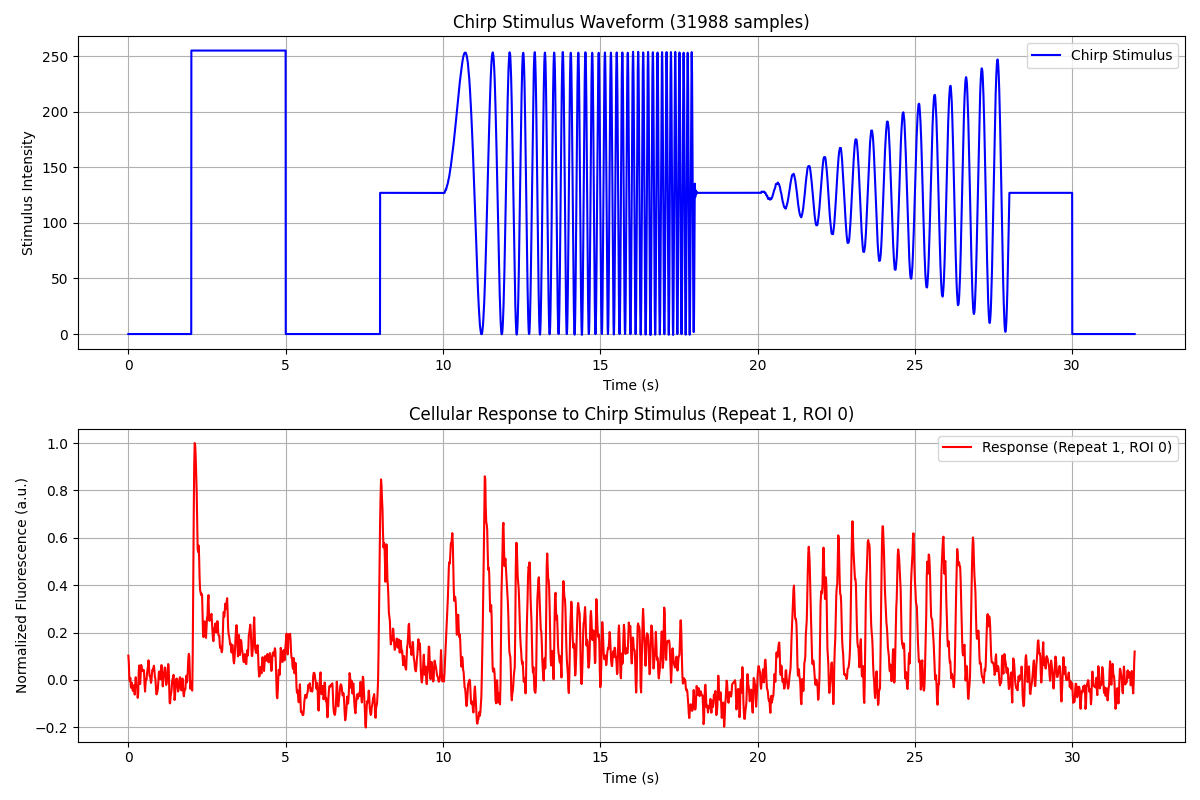
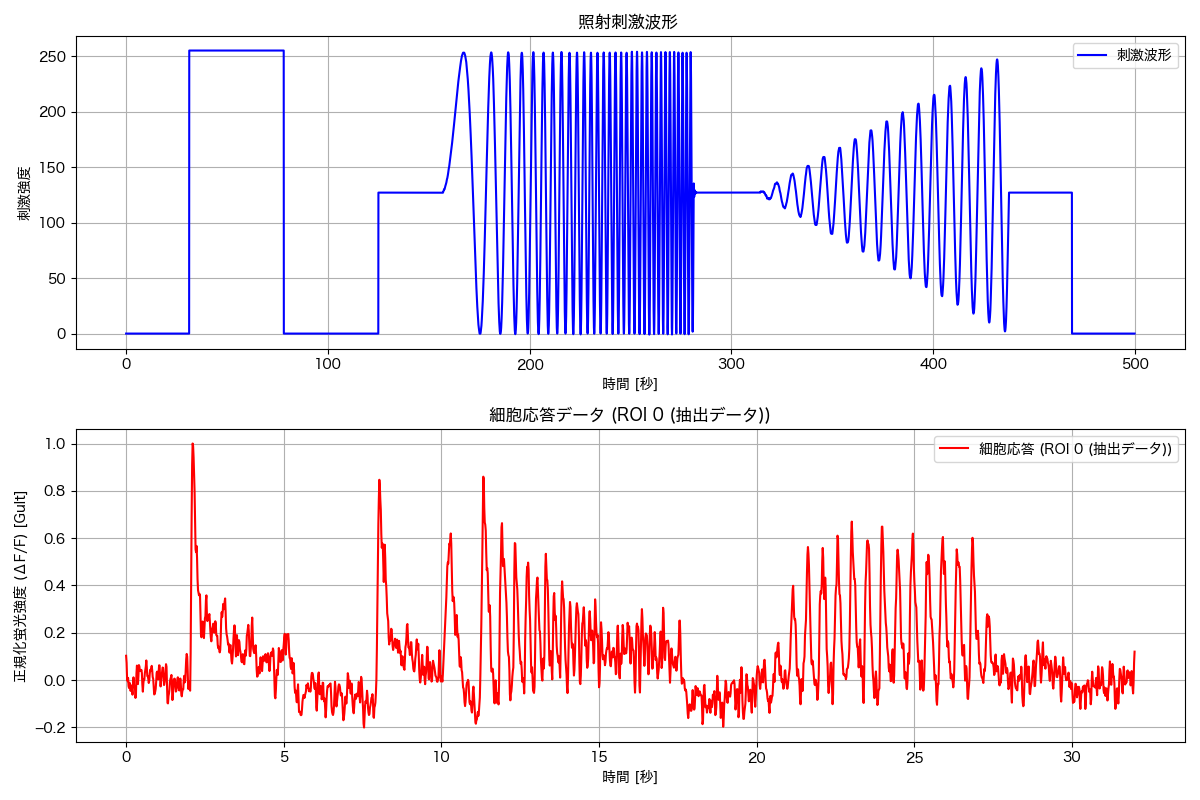
飽和の改善

diff --git a/data/ret2p/plot.py b/data/ret2p/plot.py
@@ -1,174 +1,107 @@
 import numpy as np
 import matplotlib.pyplot as plt
+from scipy.interpolate import interp1d
+import japanize_matplotlib
 
-# --- 1. 設定 ---
-# ファイル名
-stim_filename = 'data/ret2p/chirp_stim_64Hz_linear.txt'
-# 応答データファイルのフォーマット (反復回数は %d で指定)
-resp_filename_format = 'data/ret2p/response_data_64Hz.txt'
+ # Macの場合の日本語フォント設定例
 
-# 読み込む反復回数を指定 (MATLABでこのファイル名で保存した場合)
-# 例: MATLABで 'response_data_repeat_1.txt' として保存したなら、1 を指定
-target_repeat_to_load = 1 
-
-# プロットしたいROI (細胞) のインデックスを指定import numpy as np
-import matplotlib.pyplot as plt
-
-# --- 1. 設定 ---
-# ファイル名 (先ほど生成した64Hzのファイルを指定)
-stim_filename = 'data/ret2p/chirp_stim_64Hz_linear.txt'
+# --- 1. 日本語フォントの設定 ---
+# Windowsなら'MS Gothic', Macなら'Hiragino Sans'などを指定します
+# 環境に合わせて適宜変更してください
+plt.rcParams['font.family'] = 'Hiragino Sans' 
+# --- 2. ファイルとパラメータの設定 ---
+stim_filename = 'data/ret2p/chirp_stim_64Hz_bilinear.txt'
 resp_filename = 'data/ret2p/response_data_64Hz.txt'
 
 # サンプリングレート (Hz)
-# ※重要: 入力データも64Hzにダウンサンプリング済みなので、両方64Hzにします
-stim_sampling_rate = 64
+# ※データに合わせて変更してください。
+# ここでは提示されたコード(上部)に従い、両方とも64Hzにダウンサンプリング済みと仮定します。
+stim_sampling_rate = 64  
 resp_sampling_rate = 64
 
-# --- 2. chirp_stim_64Hz.txt の読み込みとプロット ---
+# プロット対象のROIインデックス (0が最初の細胞)
+target_roi_index = 1
+
+# --- 3. データの読み込み ---
 try:
+    # 刺激データの読み込み
     chirp_stim = np.loadtxt(stim_filename)
     stim_time = np.arange(0, len(chirp_stim)) / stim_sampling_rate
-
-    plt.figure(figsize=(12, 8))
-
-    plt.subplot(2, 1, 1)
-    plt.plot(stim_time, chirp_stim, color='blue', label='Chirp Stimulus (64Hz)')
-    plt.title(f'Chirp Stimulus Waveform ({len(chirp_stim)} samples)')
-    plt.xlabel('Time (s)')
-    plt.ylabel('Stimulus Intensity')
-    plt.grid(True)
-    plt.legend()
-
-except FileNotFoundError:
-    print(f"エラー: {stim_filename} が見つかりません。")
-    plt.figure()
-    plt.subplot(2, 1, 1)
-
-# --- 3. response_data_64Hz.txt の読み込みとプロット ---
-try:
-    # データを読み込む
-    response_data = np.loadtxt(resp_filename)
     
-    # データが1次元配列（1列しかない）場合の処理
+    # 応答データの読み込み
+    response_data = np.loadtxt(resp_filename)
+
+    # 応答データが1次元（1列のみ）か2次元（複数列）かで処理を分ける
     if response_data.ndim == 1:
         selected_roi_response = response_data
-        roi_label = "ROI 0 (extracted)"
+        roi_label = "ROI 0 (抽出データ)"
     else:
-        # もし複数列ある場合は最初の列を使う
-        selected_roi_response = response_data[:, 0]
-        roi_label = "ROI 0"
+        # 指定したインデックスが存在するか確認
+        if target_roi_index < response_data.shape[1]:
+            selected_roi_response = response_data[:, target_roi_index]
+            roi_label = f"ROI {target_roi_index}"
+        else:
+            print(f"警告: ROI {target_roi_index} は存在しません。最初のROIを表示します。")
+            selected_roi_response = response_data[:, 0]
+            roi_label = "ROI 0"
 
     resp_time = np.arange(0, len(selected_roi_response)) / resp_sampling_rate
 
-    plt.subplot(2, 1, 2)
-    plt.plot(resp_time, selected_roi_response, color='red', label=f'Response ({roi_label})')
-    plt.title(f'Cellular Response to Chirp Stimulus ({roi_label})')
-    plt.xlabel('Time (s)')
-    plt.ylabel('Normalized Fluorescence (a.u.)')
-    plt.grid(True)
-    plt.legend()
+except FileNotFoundError as e:
+    print(f"エラー: ファイルが見つかりません。\n詳細: {e}")
+    # 以降の処理を中断するためにexitするか、ダミーデータを入れる等の対応が必要
+    # ここでは空の配列を入れてエラー落ちを防ぎます
+    chirp_stim = np.array([])
+    selected_roi_response = np.array([])
+    stim_time = np.array([])
+    resp_time = np.array([])
 
-except FileNotFoundError:
-    print(f"エラー: {resp_filename} が見つかりません。")
-    plt.subplot(2, 1, 2)
-
-plt.tight_layout()
-plt.show()
-
-# --- 参考: 重ね合わせプロット ---
-# 両方とも64Hzになっているはずなので、そのまま重ねてプロット可能です
-if 'stim_time' in locals() and 'selected_roi_response' in locals():
-    # データ長がわずかに異なる場合のために長さを揃える（短い方に合わせる）
-    min_len = min(len(stim_time), len(resp_time))
-    
-    plt.figure(figsize=(12, 6))
-    plt.plot(stim_time[:min_len], chirp_stim[:min_len], color='blue', alpha=0.7, label='Stimulus')
-    plt.plot(resp_time[:min_len], selected_roi_response[:min_len], color='red', alpha=0.7, label='Response')
-    plt.title('Stimulus and Response Overlaid (64Hz)')
-    plt.xlabel('Time (s)')
-    plt.legend()
-    plt.grid(True)
-    plt.tight_layout()
-    plt.show()
-# Pythonは0-based indexなので、最初の細胞なら 0、10番目の細胞なら 9
-target_roi_index = 0 
-
-# サンプリングレート (Hz)
-stim_sampling_rate = 1000  # chirp_stim は1000Hz (1kHz)
-resp_sampling_rate = 64    # lchirp_avg (応答データ) は64Hz
-
-# --- 2. chirp_stimulus.txt の読み込みとプロット ---
-try:
-    # chirp_stim = np.loadtxt(stim_filename, delimiter='\t')
-    chirp_stim= np.loadtxt(stim_filename)
-    stim_time = np.arange(0, len(chirp_stim)) / stim_sampling_rate
-
+# --- 4. グラフのプロット (上下に並べる) ---
+if len(chirp_stim) > 0 and len(selected_roi_response) > 0:
     plt.figure(figsize=(12, 8))
 
-    plt.subplot(2, 1, 1) # 2行1列のグラフの1番目
-    plt.plot(stim_time, chirp_stim, color='blue', label='Chirp Stimulus')
-    plt.title('Chirp Stimulus Waveform ({} samples)'.format(len(chirp_stim)))
-    plt.xlabel('Time (s)')
-    plt.ylabel('Stimulus Intensity')
-    plt.grid(True)
-    plt.legend()
-
-except FileNotFoundError:
-    print(f"エラー: {stim_filename} が見つかりません。ファイルパスを確認してください。")
-    plt.figure() # エラーでもグラフは作成し、後続のプロットのためにsubplot数を設定
+    # 上段: 刺激波形
     plt.subplot(2, 1, 1)
-
-# --- 3. response_data_repeat_X.txt の読み込みとプロット ---
-# 指定した反復回数のファイル名を生成
-resp_current_filename = resp_filename_format % target_repeat_to_load
-
-try:
-    # 応答データは [サンプル数 x ROI数] の2次元配列
-    response_data = np.loadtxt(resp_current_filename, delimiter='\t')
-    
-    # 選択されたROIのデータを抽出
-    if target_roi_index < response_data.shape[1]:
-        selected_roi_response = response_data[:, target_roi_index]
-    else:
-        print(f"警告: 指定されたROIインデックス {target_roi_index} は存在しません。")
-        print(f"利用可能なROIの数は {response_data.shape[1]} です。最初のROIをプロットします。")
-        selected_roi_response = response_data[:, 0]
-        target_roi_index = 0 # 最初のROIに設定
-        
-    resp_time = np.arange(0, len(selected_roi_response)) / resp_sampling_rate
-
-    plt.subplot(2, 1, 2) # 2行1列のグラフの2番目
-    plt.plot(resp_time, selected_roi_response, color='red', label=f'Response (Repeat {target_repeat_to_load}, ROI {target_roi_index})')
-    plt.title(f'Cellular Response to Chirp Stimulus (Repeat {target_repeat_to_load}, ROI {target_roi_index})')
-    plt.xlabel('Time (s)')
-    plt.ylabel('Normalized Fluorescence (a.u.)')
+    plt.plot(stim_time, chirp_stim, color='blue', label='刺激波形')
+    plt.title(f'照射刺激波形 ')
+    plt.xlabel('時間 [秒]')
+    plt.ylabel('刺激強度')
     plt.grid(True)
-    plt.legend()
+    plt.legend(loc='upper right')
 
-except FileNotFoundError:
-    print(f"エラー: {resp_current_filename} が見つかりません。ファイルパスを確認してください。")
-    plt.subplot(2, 1, 2) # エラーでもグラフは作成
+    # 下段: 細胞応答
+    plt.subplot(2, 1, 2)
+    plt.plot(resp_time, selected_roi_response, color='red', label=f'細胞応答 ({roi_label})')
+    plt.title(f'細胞応答データ ({roi_label})')
+    plt.xlabel('時間 [秒]')
+    plt.ylabel('正規化蛍光強度 (ΔF/F) [Gult]')
+    plt.grid(True)
+    plt.legend(loc='upper right')
 
-plt.tight_layout() # サブプロット間のスペースを調整
-plt.show()
+    plt.tight_layout()
+    plt.show()
 
-# --- 参考: 刺激と応答を重ねてプロットする場合の注意 ---
-# サンプリングレートが異なるため、直接重ねると時間軸がずれるか、プロットが粗くなります。
-# 適切に重ねるには、どちらかのデータをリサンプリングする必要があります。
-# 例: 応答データを刺激データと同じレートにアップサンプリング
-if 'stim_time' in locals() and 'selected_roi_response' in locals():
-    from scipy.interpolate import interp1d
-
-    f = interp1d(resp_time, selected_roi_response, kind='linear', fill_value="extrapolate")
-    resampled_response = f(stim_time)
-
+    # --- 5. 参考: 重ね合わせプロット ---
+    # 両方のデータの時間軸を合わせてプロットします
     plt.figure(figsize=(12, 6))
-    plt.plot(stim_time, chirp_stim, color='blue', alpha=0.7, label='Chirp Stimulus (1000Hz)')
-    plt.plot(stim_time, resampled_response, color='red', alpha=0.7, label=f'Resampled Response (Repeat {target_repeat_to_load}, ROI {target_roi_index})')
-    plt.title('Chirp Stimulus and Resampled Response Overlaid')
-    plt.xlabel('Time (s)')
-    plt.ylabel('Intensity / Normalized Fluorescence')
-    plt.grid(True)
+    
+    # 単純な重ね合わせ（サンプリングレートが同じ場合）
+    if stim_sampling_rate == resp_sampling_rate:
+        # 短い方の長さに合わせる
+        min_len = min(len(stim_time), len(resp_time))
+        plt.plot(stim_time[:min_len], chirp_stim[:min_len], color='blue', alpha=0.6, label='刺激')
+        plt.plot(resp_time[:min_len], selected_roi_response[:min_len], color='red', alpha=0.8, label='応答')
+    else:
+        # サンプリングレートが異なる場合、応答データを刺激データの時間に合わせる（補間）
+        f = interp1d(resp_time, selected_roi_response, kind='linear', fill_value="extrapolate")
+        resampled_response = f(stim_time)
+        plt.plot(stim_time, chirp_stim, color='blue', alpha=0.6, label='刺激')
+        plt.plot(stim_time, resampled_response, color='red', alpha=0.8, label='応答 (リサンプリング済)')
+
+    plt.title('刺激と応答の重ね合わせ')
+    plt.xlabel('時間 [秒]')
+    plt.ylabel('強度 / 蛍光')
     plt.legend()
+    plt.grid(True)
     plt.tight_layout()
     plt.show()

diff --git a/src/plot_result.py b/src/plot_result.py
@@ -213,11 +213,25 @@ def main():
     u_t = u_t[:min_len_eval]
     Input_plot = Input[:min_len_eval]
 
+    # ================= 正規化処理 (追加) =================
+    # Predictionを「平均0, 最大値1」に変換
+    if check == 1 and len(Prediction) > 0:
+        # 1. 平均を引いてゼロセンター化
+        Prediction = Prediction - np.mean(Prediction)
+        
+        # 2. 最大値で割ってスケーリング (Max=1)
+        p_max = np.max(Prediction)
+        if p_max > 1e-9: # ゼロ除算防止
+            Prediction = Prediction / p_max
+            
+        print(f"Prediction Normalized: Mean={np.mean(Prediction):.4f}, Max={np.max(Prediction):.4f}")
+    # ====================================================
+
     if check == 1:
         corr, _ = spearmanr(Output_exp, Prediction)
         print(f"Spearman Correlation: {corr:.6f}")
 
-    # ================= 保存処理 (追加箇所) =================
+    # ================= 保存処理 =================
     save_dir = os.path.join(RESULTS_DIR, "validation")
     os.makedirs(save_dir, exist_ok=True)
 
@@ -226,7 +240,7 @@ def main():
     np.savetxt(os.path.join(save_dir, "u.txt"), u_t, fmt='%.6f')
     np.savetxt(os.path.join(save_dir, "predict.txt"), Prediction, fmt='%.6f')
     print(f"保存完了: {save_dir}/{{g.txt, u.txt, predict.txt}}")
-    # ====================================================
+    # ============================================
 
     # プロット作成 (4段構成)
     total_time = len(Input_plot) * dt

diff --git a/src/BaccusModel.py b/src/BaccusModel.py
@@ -256,6 +256,10 @@ class BaccusOptimizer:
             # 先頭の余分な部分をカットし、データ長 t 分だけ取り出す
             # これにより、信号の立ち上がりが t=0 付近に来るように補正されます
             g_t = g_full[shift_idx : shift_idx + t]
+            #追加: g_t の正規化 (論文の Eq 5 に相当する処理)
+            g_std = np.std(g_t)
+            if g_std > 1e-9:
+                g_t = g_t / g_std
             
             # Nonlinear Model
             u_t = N_LNK.main(g_t, a_nonlinear, kappa_nonlinear, b1_nonlinear, b2_nonlinear, ka_kinetic)
